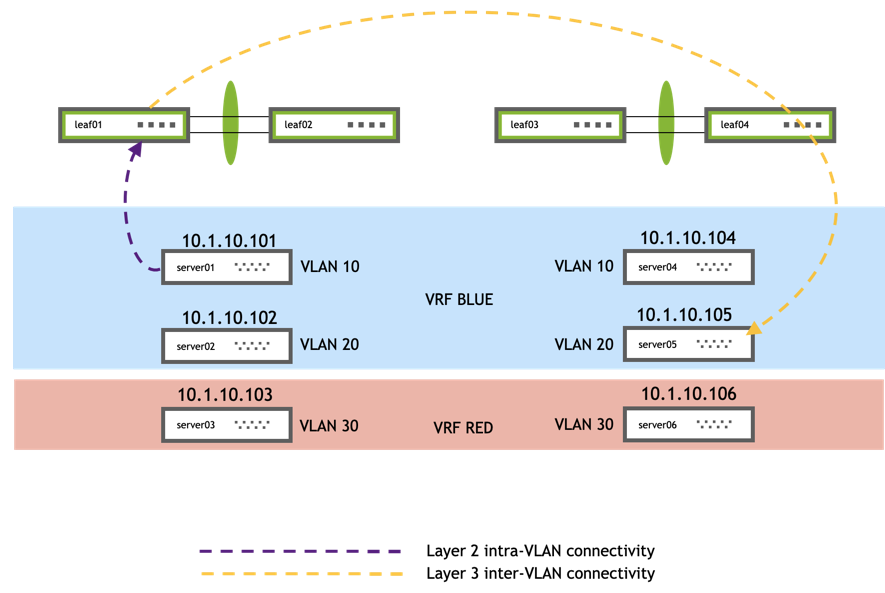
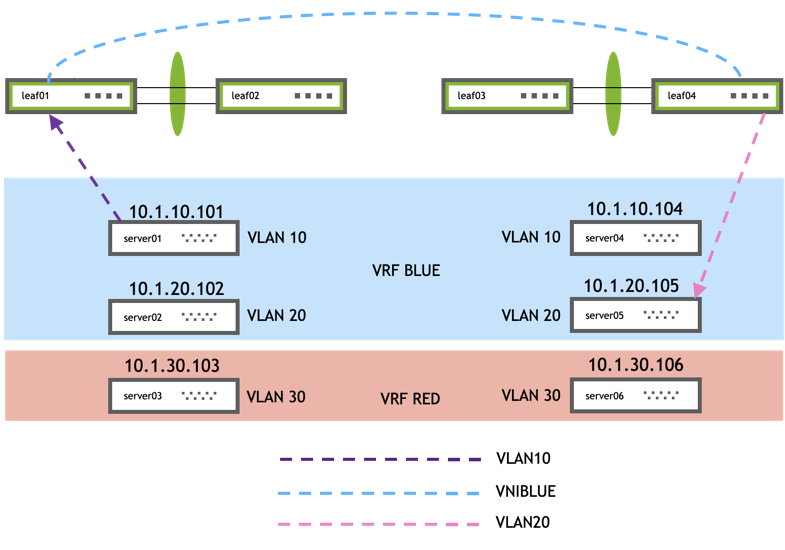
diagrams and traffic flow for symmetric

diff --git a/content/cumulus-linux-42/Network-Virtualization/Ethernet-Virtual-Private-Network-EVPN/Configuration-Examples.md b/content/cumulus-linux-42/Network-Virtualization/Ethernet-Virtual-Private-Network-EVPN/Configuration-Examples.md
@@ -1956,21 +1956,26 @@ line vty
 ## EVPN Symmetric Routing
 
 The following example shows an EVPN symmetric routing configuration, where:
-
 - MLAG is configured between leaf01 and leaf02, leaf03 and leaf04, and border01 and border02
 - BGP unnumbered is in the underlay (configured on all leafs and spines)
 - VRF BLUE and VRF RED are configured on the leafs for traffic flow
-   - server01 and server04 are in VLAN 10 in VRF BLUE
-   - server02 and server05 are in VLAN 20 in VRF BLUE
-   - server03 and server06 are on VLAN 30 in VRF RED
+- server01 and server04 are in VLAN 10 in VRF BLUE
+- server02 and server05 are in VLAN 20 in VRF BLUE
+- server03 and server06 are on VLAN 30 in VRF RED
 
-   The following image shows traffic flow between VRFs:
+The following images shows traffic flow between tenants for traffic isolation. The spines and other devices are omited in the images below for simplicity.
 
-   |     |     |
-   | --- | --- |
-   | <img width=800/> {{< img src="/images/cumulus-linux/EVPN-same-VLAN.png" width="700" >}} | <br><br><br><br><br><br><ul><li>server01 and server04 are in the same VLAN and the same VRF so traffic is sent over layer 2</li></ul>|
-   | {{< img src="/images/cumulus-linux/EVPN-different-VLAN.png" width="800" >}} | <br><br><br><br><br><br><ul><li>server01 and server02 are in the same VRF but in different VLANs</li><br><li>Traffic is sent from server01 to the leafs over layer 2 but over layer 3 from the leafs to server02</li></ul> |
-   | {{< img src="/images/cumulus-linux/EVPN-different-VRF.png" width="800" >}} | <br><br><br><br><br><br><ul><li>server01 and server06 are in different VLANs and different VRFs. </li><br><li>Traffic from server01 is sent to the leafs over layer 2 but is sent over layer 3 from the leafs to server06 via a forwarding device</li></ul>|
+|   Traffic Flow between server01 and server04  |     |
+| --- | --- |
+| <img width=1000/> {{< img src="/images/cumulus-linux/EVPN-same-VLAN.png" >}} | server01 and server04 are in the same VRF and the same VLAN but are located across different leafs.<br><ol><li>server01 makes a LACP hash decision and forwards traffic to leaf01.</li><li>leaf01 does a layer 2 lookup and has the MAC address for server04 in VNI 10, through leaf04.</li><li>The VXLAN encapsulated frame arrives on leaf04, which does a layer 2 lookup and has the MAC address for server04 in VLAN 10.</li></ul>|
+
+|  Traffic Flow between server01 and server05   |     |
+| --- | --- |
+| <img width=1150/> {{< img src="/images/cumulus-linux/EVPN-different-VLAN.png"  >}} | server01 and server05 are in the same VRF, different VLANs, and are located across different leafs.<br><ol><li>server01 makes an LACP hash decision to reach the default gateway and forwards traffic to leaf01.</li><li>leaf01 does a layer 3 lookup in VRF BLUE and has a route in VNIBLUE through leaf04.</li><li>The VXLAN encapsulated packet arrives on leaf04, which does a layer 3 lookup in VRF BLUE and has a route through VLAN 20 to server05.</li></ul> |
+
+|   Traffic Flow between server01 and server06  |     |
+| --- | --- |
+| <img width=1300/> {{< img src="/images/cumulus-linux/EVPN-different-VRF.png"  >}} | server01 and server06 are in different VRFs, different VLANs, and are located across different leafs.<br><ol><li>server01 makes an LACP hash decision to reach the default gateway and forwards traffic to leaf01.</li><li>leaf01 does a layer 3 lookup in VRF BLUE and has a route in VNIBLUE through border01.</li><li>The VXLAN encapsulated packet arrives on border01, which does a layer 3 lookup in VRF BLUE and has a route through VLAN 30 to fw01 (the policy device).</li><li>fw01 does a layer 3 lookup (without any VRFs) and has a route in VLAN40, through border02.</li><li>border02 does a layer 3 lookup in VRF RED and has a route in VNIRED, through leaf04.</li><li>The VXLAN encapsulated packet arrives on leaf04, which does a layer 3 lookup in VRF RED and has a route in VLAN 30 to server06.</ul>|
 
 ### /etc/network/interfaces
 
